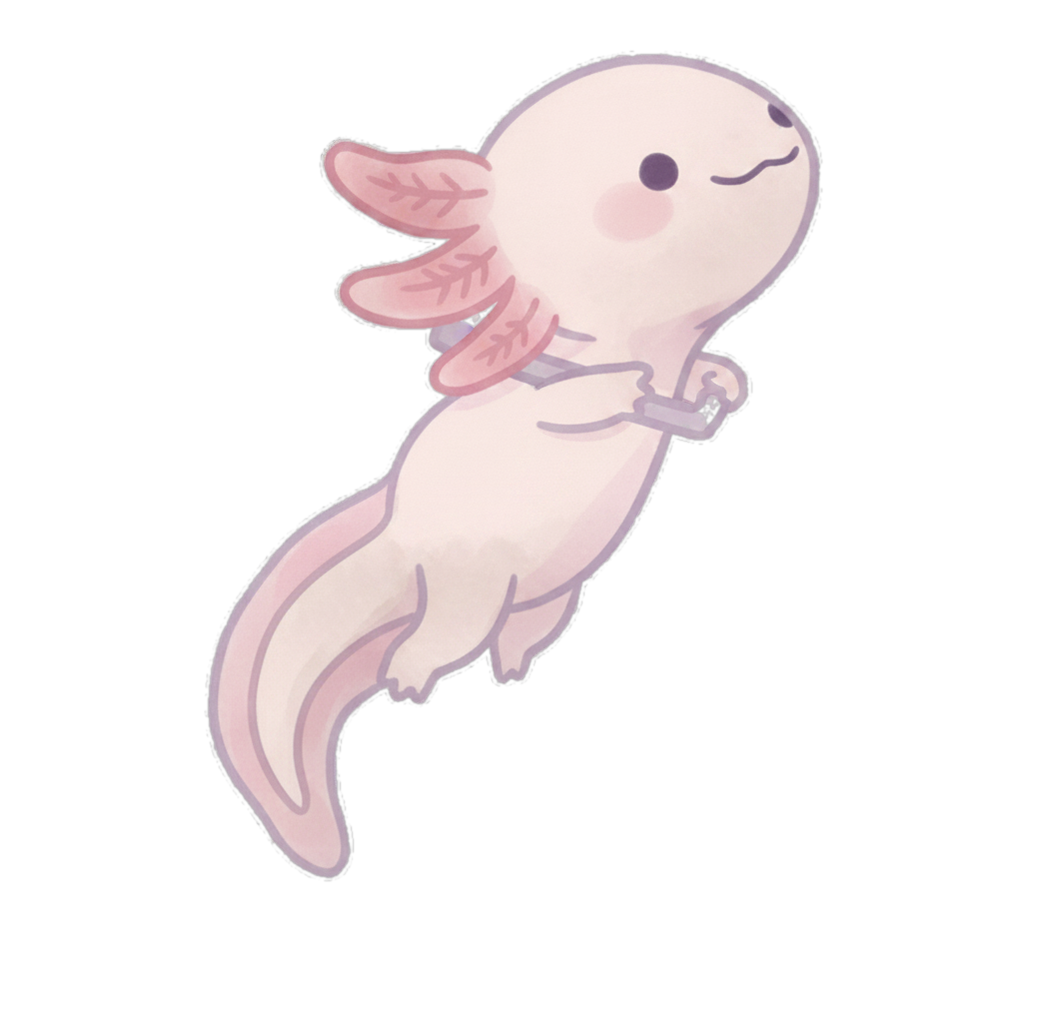
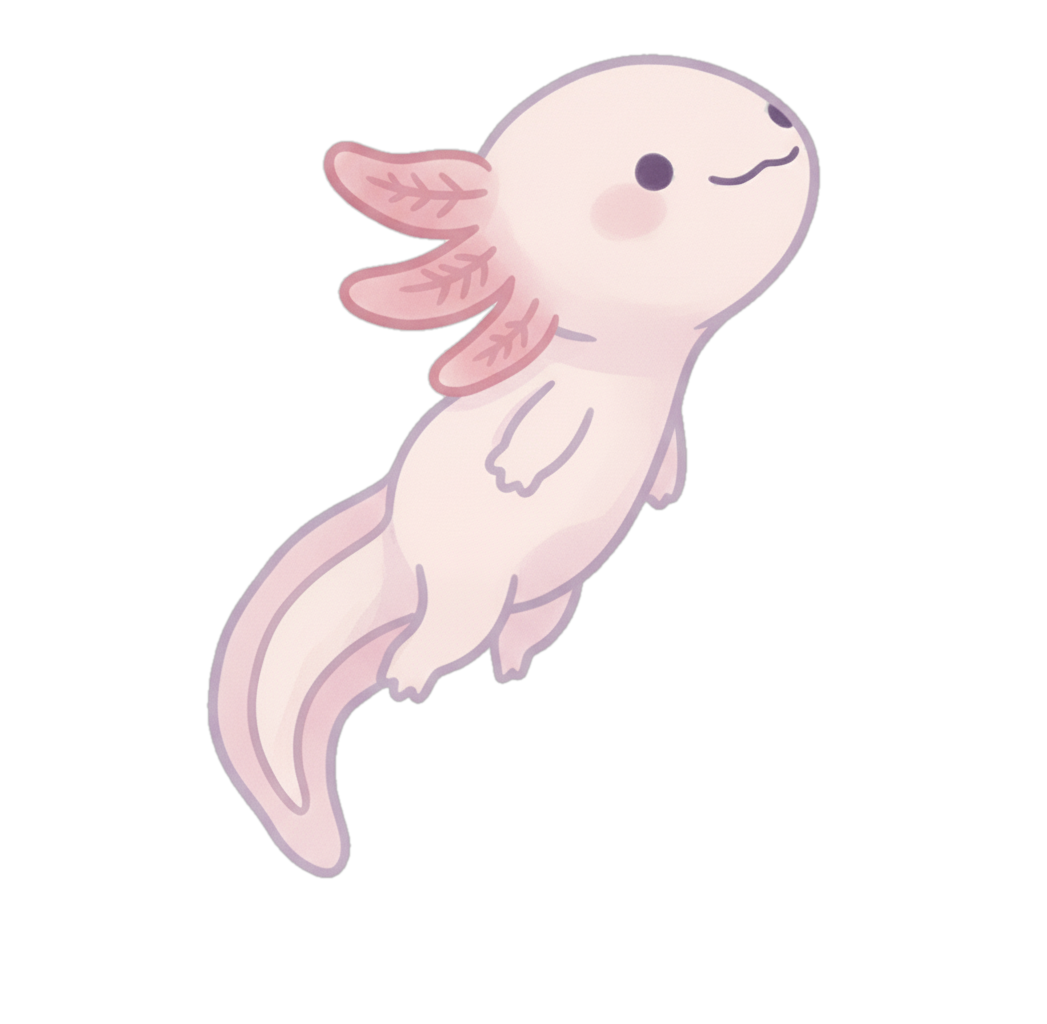
Arregla capas/fondo/burbujas, pez con bote, muerte con sprite real y diagonal limpia
- Fondo: la franja de cielo (ParallaxLayer) y el tinte de zona (ZoneManager)
  se dimensionaban una sola vez con scene.scale.width/height en create(),
  que a veces todavía no reflejaba el tamaño real del contenedor — se veía
  como un rectángulo del color de fondo del canvas asomando en una esquina.
  Ahora se reafirma el tamaño contra la cámara cada frame.
- Todos los animales (medusa/tiburón/calamar/erizo/pez grande) pasan a la
  misma capa que Lumi (depth 5) para leerse como obstáculos reales, no como
  decoración. foreground_plants bajó de depth 6 (por delante de TODO,
  incluido Lumi) a 3.5: eso era lo que escondía el burbujeo del impulso del
  nenúfar de salida cuando Lumi pasaba cerca de esa capa.
- Pez grande: ahora bota (squash/stretch + frenazo breve en su propia
  velocidad) al empujar a Lumi, y el empujón incluye un tirón hacia abajo
  (contra su progreso), no solo lateral — pedido explícito de que "tire
  hacia atrás".
- Animación de muerte: se quitan los ojos en cruz dibujados por código
  (Graphics) — ahora es un frame de verdad generado con Gemini
  (assets/characters/lumi/death/death_01.png, misma pose que idle con ojos
  en X) que se pone como textura fija al empezar el giro/hundimiento.
- swim_diagonal: los frames 02 y 04 (los nuevos de la tanda anterior)
  tenían un artefacto gris tipo broche en el cuello y una sombra granulada
  que no combinaba con el resto — se regeneraron desde cero pidiendo
[…]

diff --git a/src/scenes/PondScene.ts b/src/scenes/PondScene.ts
@@ -14,6 +14,7 @@ import {
   WORLD_HEIGHT,
   WORLD_WIDTH,
 } from "@/config/GameConfig";
+import { BigFish } from "@/entities/BigFish";
 import { Lumi } from "@/entities/Lumi";
 import { BackgroundDecorSpawner } from "@/systems/BackgroundDecorSpawner";
 import { BackgroundFishField } from "@/systems/BackgroundFishField";
@@ -75,9 +76,6 @@ export class PondScene extends Phaser.Scene {
    * pantalla), nunca sube. Se mueve sola a CAMERA_AUTO_RISE_SPEED y además
    * sigue a Lumi si ella sube más rápido — ver update(). */
   private cameraCeiling = 0;
-  /** Graphics de los ojos en cruz de la animación de muerte — solo existe
-   * mientras dura el giro/hundimiento (ver startDeathSequence). */
-  private deathEyesGraphics?: Phaser.GameObjects.Graphics;
 
   constructor() {
     super("Pond");
@@ -256,9 +254,13 @@ export class PondScene extends Phaser.Scene {
     // PondScene consulta su empuje cada frame (ver update()).
     this.currentZoneSpawner = new CurrentZoneSpawner(this, WORLD_WIDTH, START_Y - CURRENT_ZONE_START_OFFSET);
 
-    // foreground_plants es la capa más cercana a cámara: va delante de
-    // Lumi (como su nombre indica), no detrás. Mismo balanceo por fundido
-    // que distant_plants.
+    // foreground_plants es la capa más cercana a cámara visualmente, pero
+    // NO puede ir por delante de Lumi/animales/partículas (antes en depth
+    // 6, por encima de todo) — eso escondía el burbujeo del impulso del
+    // nenúfar de salida y hacía que los animales que pasaran por detrás se
+    // sintieran "decoración" en vez de obstáculos reales. Se deja justo
+    // por debajo de los nenúfares, no por delante de todo. Mismo balanceo
+    // por fundido que distant_plants.
     new CrossfadePlant(
       this,
       WORLD_WIDTH / 2,
@@ -270,7 +272,7 @@ export class PondScene extends Phaser.Scene {
       ],
       { x: 0.5, y: 1 },
       1,
-      6,
+      3.5,
       3500,
       4000,
     );
@@ -377,17 +379,23 @@ export class PondScene extends Phaser.Scene {
     this.boostBurstSmall.explode(14, this.lumi.sprite.x, this.lumi.sprite.y);
   }
 
-  /** El pez grande no mata: solo aparta a Lumi de un empujón. Un cooldown
-   * corto evita que el empuje se reaplique todos los frames mientras los
-   * cuerpos siguen solapados. */
+  /** El pez grande no mata: solo aparta a Lumi de un empujón (y bota él
+   * mismo al chocar, ver BigFish.bounce). Un cooldown corto evita que el
+   * empuje se reaplique todos los frames mientras los cuerpos siguen
+   * solapados. */
   private pushLumiAway(fishSprite: Phaser.Physics.Arcade.Image) {
     if (this.isDying || this.isGameOver) return;
     if (this.time.now < this.bigFishPushCooldownUntil) return;
     this.bigFishPushCooldownUntil = this.time.now + BIG_FISH_PUSH_COOLDOWN_MS;
 
+    (fishSprite.getData("entity") as BigFish | undefined)?.bounce(this.time.now);
+
     const dx = this.lumi.sprite.x - fishSprite.x;
     const direction = dx === 0 ? (Math.random() < 0.5 ? -1 : 1) : Math.sign(dx);
-    this.lumi.applyKnockback(direction * BIG_FISH_PUSH_STRENGTH, -60, BIG_FISH_PUSH_COOLDOWN_MS * 0.6);
+    // Pedido explícito: que además de apartarla a un lado, el golpe "tire
+    // hacia atrás" de Lumi — un empuje hacia abajo (contra su progreso de
+    // escalada), no solo lateral.
+    this.lumi.applyKnockback(direction * BIG_FISH_PUSH_STRENGTH, 90, BIG_FISH_PUSH_COOLDOWN_MS * 0.6);
   }
 
   /** Antes de mostrar la pantalla de "has perdido", una animación breve de
@@ -410,13 +418,10 @@ export class PondScene extends Phaser.Scene {
       this.playElectricShock(sourceSprite.x, sourceSprite.y, sprite.x, sprite.y);
     }
 
-    // Ojos en cruz (x_x): un Graphics aparte, no un asset nuevo — se
-    // redibuja cada frame del giro/hundimiento siguiendo posición, rotación,
-    // escala y alpha del sprite, para que quede "pegado" a la cara mientras
-    // gira y se encoge.
-    this.deathEyesGraphics = this.add.graphics().setDepth(sprite.depth + 0.01);
-    this.drawDeathEyes(sprite);
-
+    // Los ojos en cruz ya no son un Graphics dibujado por código: son arte
+    // de verdad generado con Gemini (ver assets/characters/lumi/death/ y
+    // Lumi.prepareForDeath, que ya puso esa textura). Aquí solo queda el
+    // giro/hundimiento/encogido normal del sprite.
     this.tweens.add({
       targets: sprite,
       angle: sprite.flipX ? -360 : 360,
@@ -426,61 +431,8 @@ export class PondScene extends Phaser.Scene {
       alpha: 0,
       duration: 700,
       ease: "Cubic.easeIn",
-      onUpdate: () => this.drawDeathEyes(sprite),
-      onComplete: () => {
-        this.deathEyesGraphics?.destroy();
-        this.deathEyesGraphics = undefined;
-        this.triggerGameOver(reason);
-      },
+      onComplete: () => this.triggerGameOver(reason),
     });
-  }
-
-  // Posición de los ojos de Lumi dentro del lienzo del frame (1047x1024,
-  // origen del sprite en el centro), medida directamente sobre idle_01.png
-  // (los dos blobs oscuros de la cara): centro en (434.96, 294.79) y
-  // (616.91, 294.50) sobre un lienzo centrado en (523.5, 512) — de ahí los
-  // ±91 / -217 de abajo. Misma posición para todas las poses porque la
-  // cabeza no cambia de sitio en el lienzo entre animaciones.
-  private static readonly DEATH_EYE_OFFSET_X = 91;
-  private static readonly DEATH_EYE_OFFSET_Y = -217;
-  private static readonly DEATH_EYE_CROSS_SIZE = 17;
-
-  /** Dibuja las dos "x" de los ojos en la posición actual del sprite,
-   * aplicando su rotación/escala/flip/alpha del momento — así el efecto
-   * sigue pegado a la cara durante todo el giro de la animación de muerte. */
-  private drawDeathEyes(sprite: Phaser.Physics.Arcade.Sprite) {
-    const g = this.deathEyesGraphics;
-    if (!g) return;
-    g.clear();
-    g.setAlpha(sprite.alpha);
-
-    const rot = sprite.rotation;
-    const cos = Math.cos(rot);
-    const sin = Math.sin(rot);
-    const scale = sprite.scaleX;
-    const mirror = sprite.flipX ? -1 : 1;
-    const cross = PondScene.DEATH_EYE_CROSS_SIZE * scale;
-
-    g.lineStyle(9 * scale, 0x3a2a4a, 0.95);
-    for (const sideX of [-1, 1]) {
-      const localX = sideX * PondScene.DEATH_EYE_OFFSET_X * mirror;
-      const localY = PondScene.DEATH_EYE_OFFSET_Y;
-      const eyeX = sprite.x + (localX * cos - localY * sin) * scale;
-      const eyeY = sprite.y + (localX * sin + localY * cos) * scale;
-
-      // Las dos diagonales de la "x", rotadas igual que el sprite para que
-      // no se queden "derechas" mientras el cuerpo gira.
-      const rotatePoint = (px: number, py: number) => ({
-        x: eyeX + px * cos - py * sin,
-        y: eyeY + px * sin + py * cos,
-      });
-      const a = rotatePoint(-cross, -cross);
-      const b = rotatePoint(cross, cross);
-      const c = rotatePoint(-cross, cross);
-      const d = rotatePoint(cross, -cross);
-      g.lineBetween(a.x, a.y, b.x, b.y);
-      g.lineBetween(c.x, c.y, d.x, d.y);
-    }
   }
 
   /** Rayo en zigzag entre la medusa y Lumi (Graphics, no un asset — es un
@@ -608,7 +560,7 @@ export class PondScene extends Phaser.Scene {
     this.bestHeight = Math.max(this.bestHeight, START_Y - this.lumi.sprite.y);
     this.scoreText.setText(`Altura: ${Math.round(this.bestHeight / 10)}`);
 
-    const zoneBlend = this.zoneManager.update(this.lumi.sprite.y);
+    const zoneBlend = this.zoneManager.update(this.lumi.sprite.y, cam);
     this.zoneText.setText(
       zoneBlend.next ? `${zoneBlend.current.name} → ${zoneBlend.next.name}` : zoneBlend.current.name,
     );

diff --git a/src/entities/BigFish.ts b/src/entities/BigFish.ts
@@ -4,6 +4,12 @@ import { BlinkEyes } from "@/systems/BlinkEyes";
 
 const BOB_AMPLITUDE = 12;
 const BOB_SPEED = 0.45;
+const BOUNCE_DURATION_MS = 160;
+const BOUNCE_SQUASH = 0.22;
+// Al chocar, un pequeño retroceso en su propia velocidad de patrulla (se
+// frena/retrocede un instante), para que el "bote" se sienta en los dos
+// lados del choque, no solo en Lumi.
+const BOUNCE_RECOIL_SPEED_MULT = 0.6;
 
 /**
  * Quinto obstáculo: un pez mucho más grande que los decorativos de fondo
@@ -18,9 +24,11 @@ export class BigFish {
   private phase: number;
   private direction: 1 | -1;
   private readonly blinkEyes: BlinkEyes;
+  private readonly baseScale: number;
+  private bounceUntil = 0;
 
   constructor(
-    scene: Phaser.Scene,
+    private scene: Phaser.Scene,
     x: number,
     y: number,
     scale: number,
@@ -29,7 +37,13 @@ export class BigFish {
   ) {
     this.sprite = scene.physics.add.image(x, y, "fish_05");
     this.sprite.setScale(scale);
-    this.sprite.setDepth(4.6);
+    this.baseScale = scale;
+    // Permite a PondScene recuperar esta instancia a partir del sprite que
+    // recibe el callback de overlap (que solo conoce el GameObject físico).
+    this.sprite.setData("entity", this);
+    // Pedido explícito: todos los animales en la misma capa que Lumi, para
+    // que se lean claramente como obstáculos y no como decoración de fondo.
+    this.sprite.setDepth(5);
     (this.sprite.body as Phaser.Physics.Arcade.Body).setAllowGravity(false);
 
     this.baseY = y;
@@ -42,11 +56,28 @@ export class BigFish {
 
     // Ojo único medido sobre fish_05.png (323x230, origen en el centro):
     // centro en (282.1, 111.4).
-    this.blinkEyes = new BlinkEyes(scene, this.sprite, [{ x: 120.6, y: -3.6, radius: 11 }], 4.61);
+    this.blinkEyes = new BlinkEyes(scene, this.sprite, [{ x: 120.6, y: -3.6, radius: 11 }], 5.01);
   }
 
   destroy() {
     this.blinkEyes.destroy();
+  }
+
+  /** Pedido explícito: el pez debería "botar" al empujar a Lumi, no
+   * quedarse igual como si nada. Un squash/stretch rápido (mismo tipo de
+   * animación que el nenúfar al usarse) más un frenazo/retroceso breve en
+   * su propia velocidad de patrulla — el bote se nota en los dos lados del
+   * choque. */
+  bounce(time: number) {
+    this.bounceUntil = time + BOUNCE_DURATION_MS;
+    this.scene.tweens.add({
+      targets: this.sprite,
+      scaleX: this.baseScale * (1 - BOUNCE_SQUASH),
+      scaleY: this.baseScale * (1 + BOUNCE_SQUASH),
+      duration: BOUNCE_DURATION_MS * 0.4,
+      yoyo: true,
+      ease: "Sine.easeOut",
+    });
   }
 
   update(time: number) {
@@ -63,7 +94,8 @@ export class BigFish {
     // grupo físico resetea la velocidad a 0 justo después de que el
     // constructor la fija (ver BigFishSpawner), si no el pez se queda
     // parado para siempre.
-    this.sprite.setVelocityX(BIG_FISH_PATROL_SPEED * this.direction);
+    const recoiling = time < this.bounceUntil;
+    this.sprite.setVelocityX(BIG_FISH_PATROL_SPEED * this.direction * (recoiling ? -BOUNCE_RECOIL_SPEED_MULT : 1));
 
     this.sprite.y = this.baseY + Math.sin(t * BOB_SPEED + this.phase) * BOB_AMPLITUDE;
     this.blinkEyes.update(time);

diff --git a/src/systems/ZoneManager.ts b/src/systems/ZoneManager.ts
@@ -60,7 +60,15 @@ export class ZoneManager {
   /** Actualiza el rectángulo de tinte de profundidad a pantalla completa
    * interpolando color+alpha entre la zona actual y la siguiente según el
    * progreso de la transición. */
-  update(worldY: number): ZoneBlend {
+  update(worldY: number, cam: Phaser.Cameras.Scene2D.Camera): ZoneBlend {
+    // Reafirmar el tamaño cada frame (barato) en vez de fiarse solo del
+    // evento RESIZE: al construirse en create(), scene.scale.width/height
+    // a veces aún no reflejaba el tamaño real del contenedor (todavía sin
+    // asentar el layout del navegador), dejando el rectángulo más pequeño
+    // que la pantalla real — eso se veía como "un rectángulo de otro
+    // color" en la esquina no cubierta durante las transiciones de zona.
+    this.tintRect.setSize(cam.width, cam.height);
+
     const blend = this.resolve(worldY);
     const { current, next, t } = blend;
 

diff --git a/src/entities/Lumi.ts b/src/entities/Lumi.ts
@@ -68,10 +68,16 @@ export class Lumi {
   }
 
   /** Antes de la secuencia de muerte: asegura que el sprite físico esté
-   * visible (por si acaso), para que el giro/hundimiento y los ojos en cruz
-   * se vean pase lo que pase con el estado de nado en el momento del golpe. */
+   * visible (por si acaso) y le pone la pose de muerte (ojos en X, arte de
+   * verdad generado con Gemini — ver assets/characters/lumi/death/ y
+   * lumi-asset-gen), pase lo que pase con el estado de nado en el momento
+   * del golpe. Un solo frame fijo, no una animación en bucle: hay que
+   * parar cualquier animación en curso o el siguiente tick la
+   * sobrescribiría. */
   prepareForDeath() {
     this.sprite.setVisible(true);
+    this.sprite.anims.stop();
+    this.sprite.setTexture(frameKey("death", 1));
   }
 
   /** Empujón involuntario (p.ej. el pez grande): anula el control del

diff --git a/src/entities/Shark.ts b/src/entities/Shark.ts
@@ -39,7 +39,9 @@ export class Shark {
   ) {
     this.sprite = scene.physics.add.image(x, y, "shark");
     this.sprite.setScale(scale);
-    this.sprite.setDepth(4.85);
+    // Pedido explícito: todos los animales en la misma capa que Lumi, para
+    // que se lean claramente como obstáculos y no como decoración de fondo.
+    this.sprite.setDepth(5);
     (this.sprite.body as Phaser.Physics.Arcade.Body).setAllowGravity(false);
 
     this.baseY = y;
@@ -54,7 +56,7 @@ export class Shark {
 
     // Ojo único (dibujo de perfil), medido sobre shark.png (1191x697,
     // origen en el centro): centro en (290.7, 395.9).
-    this.blinkEyes = new BlinkEyes(scene, this.sprite, [{ x: -304.8, y: 47.4, radius: 25 }], 4.86);
+    this.blinkEyes = new BlinkEyes(scene, this.sprite, [{ x: -304.8, y: 47.4, radius: 25 }], 5.01);
   }
 
   destroy() {

diff --git a/src/entities/Jellyfish.ts b/src/entities/Jellyfish.ts
@@ -31,7 +31,9 @@ export class Jellyfish {
   constructor(scene: Phaser.Scene, x: number, y: number, scale: number) {
     this.sprite = scene.physics.add.staticImage(x, y, "jellyfish");
     this.sprite.setScale(scale);
-    this.sprite.setDepth(4.8);
+    // Pedido explícito: todos los animales en la misma capa que Lumi, para
+    // que se lean claramente como obstáculos y no como decoración de fondo.
+    this.sprite.setDepth(5);
     this.sprite.refreshBody();
 
     this.baseX = x;
@@ -48,7 +50,7 @@ export class Jellyfish {
         { x: -86.5, y: -134.3, radius: 15 },
         { x: 82.5, y: -135.9, radius: 15 },
       ],
-      4.81,
+      5.01,
     );
   }
 

diff --git a/src/entities/Urchin.ts b/src/entities/Urchin.ts
@@ -19,7 +19,9 @@ export class Urchin {
   constructor(scene: Phaser.Scene, x: number, y: number, scale: number) {
     this.sprite = scene.physics.add.staticImage(x, y, "urchin");
     this.sprite.setScale(scale);
-    this.sprite.setDepth(4.75);
+    // Pedido explícito: todos los animales en la misma capa que Lumi, para
+    // que se lean claramente como obstáculos y no como decoración de fondo.
+    this.sprite.setDepth(5);
     this.sprite.refreshBody();
 
     this.baseY = y;
@@ -34,7 +36,7 @@ export class Urchin {
         { x: -220.2, y: -26.1, radius: 20 },
         { x: -25.2, y: 1.1, radius: 20 },
       ],
-      4.76,
+      5.01,
     );
   }
 

diff --git a/src/systems/ParallaxLayer.ts b/src/systems/ParallaxLayer.ts
@@ -20,6 +20,12 @@ export class ParallaxLayer {
   }
 
   update(camera: Phaser.Cameras.Scene2D.Camera) {
+    // Reafirmar el tamaño cada frame (barato): al construirse en create(),
+    // scene.scale.width/height a veces aún no reflejaba el tamaño real del
+    // contenedor (layout del navegador todavía sin asentar), dejando esta
+    // franja más pequeña que la pantalla real — se veía como un
+    // rectángulo del color de fondo del canvas asomando en una esquina.
+    this.tile.setSize(camera.width, camera.height);
     this.tile.tilePositionX = camera.scrollX * this.factor;
     this.tile.tilePositionY = camera.scrollY * this.factor;
   }

diff --git a/src/entities/Squid.ts b/src/entities/Squid.ts
@@ -35,7 +35,9 @@ export class Squid {
   ) {
     this.sprite = scene.physics.add.image(x, y, "squid");
     this.sprite.setScale(scale);
-    this.sprite.setDepth(4.82);
+    // Pedido explícito: todos los animales en la misma capa que Lumi, para
+    // que se lean claramente como obstáculos y no como decoración de fondo.
+    this.sprite.setDepth(5);
     (this.sprite.body as Phaser.Physics.Arcade.Body).setAllowGravity(false);
 
     this.baseY = y;
@@ -54,7 +56,7 @@ export class Squid {
         { x: 40.2, y: 8.5, radius: 28 },
         { x: 216.9, y: 83.9, radius: 30 },
       ],
-      4.83,
+      5.01,
     );
   }
 

diff --git a/src/config/LumiAnimConfig.ts b/src/config/LumiAnimConfig.ts
@@ -29,6 +29,10 @@ export const LUMI_FRAME_COUNT: Record<string, number> = {
   swim_right: 4,
   swim_up: 4,
   swim_diagonal: 4,
+  // Un solo frame: la pose de muerte (ojos en X, generada con Gemini, ver
+  // lumi-asset-gen) no es una animación en bucle — se pone como textura
+  // fija justo al empezar el giro/hundimiento (ver Lumi.showDeathFace).
+  death: 1,
 };
 
 export const LUMI_FPS = 8; // pedido en el ejemplo de STYLE_GUIDE.md
